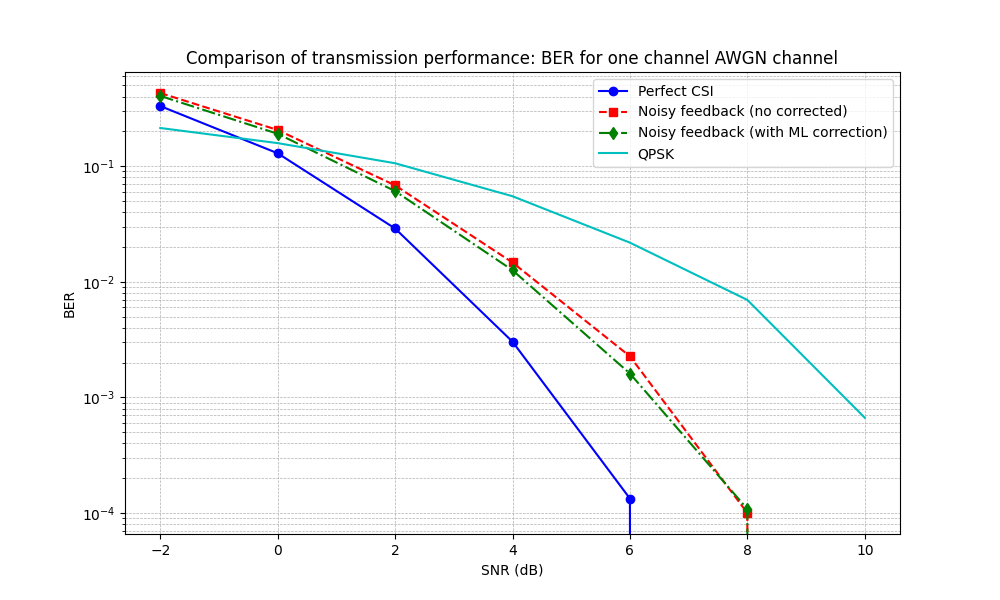
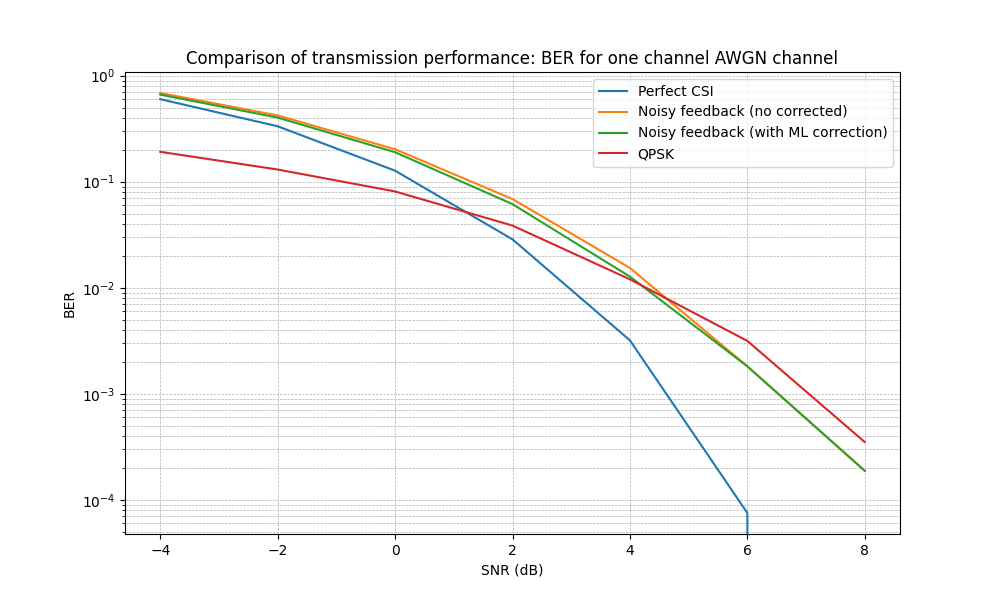
test

diff --git a/evaluate.py b/evaluate.py
@@ -134,11 +134,11 @@ def evaluate_autoencoder(encoder, decoder, m, n, k, snr_db, chann_type, n_sample
 
     return metrics
 
-snr_values = np.arange(-4, 13, 2)  # SNR en dB
+snr_values = np.arange(-4, 9, 2)  # SNR en dB
 n_samples = 20000  # Nombre d'échantillons pour l'évaluation
 m, n = 16, 7  # Paramètres de l'autoencodeur
 k = int(math.log2(m))
-chann_type = 'Rayleigh'
+chann_type = 'AWGN'
 
 encoder_perfect, decoder_perfect, _ = load_models(m, n, prefix='perfect_', chann_type=chann_type)
 encoder_feedback, decoder_feedback, _ = load_models(m, n, prefix='noisy_', chann_type=chann_type)
